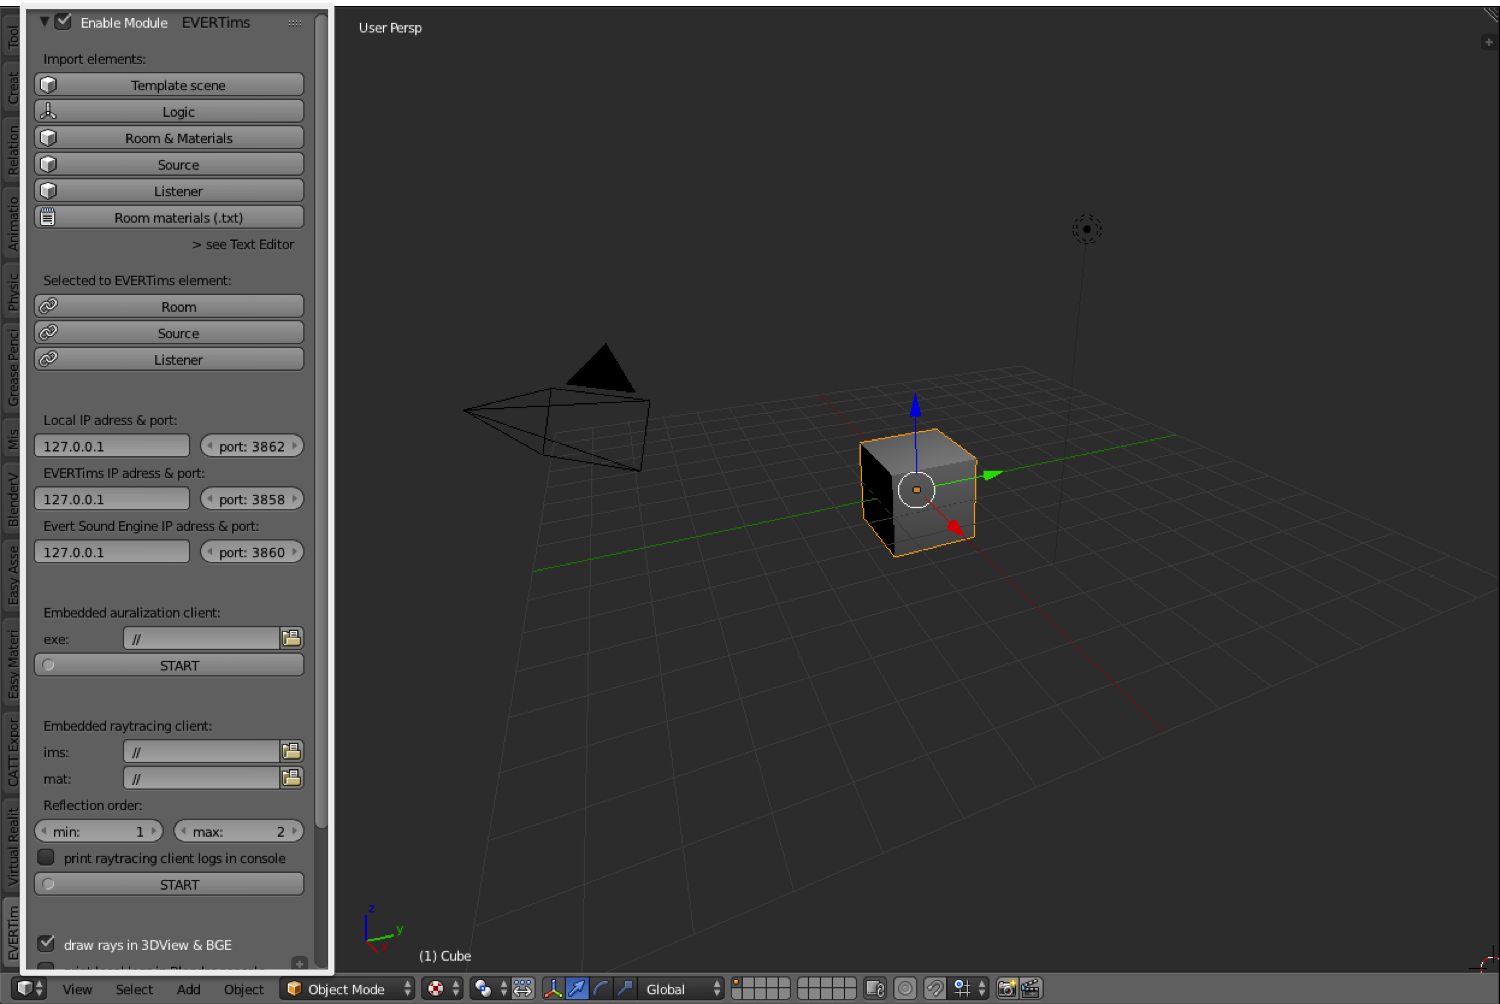
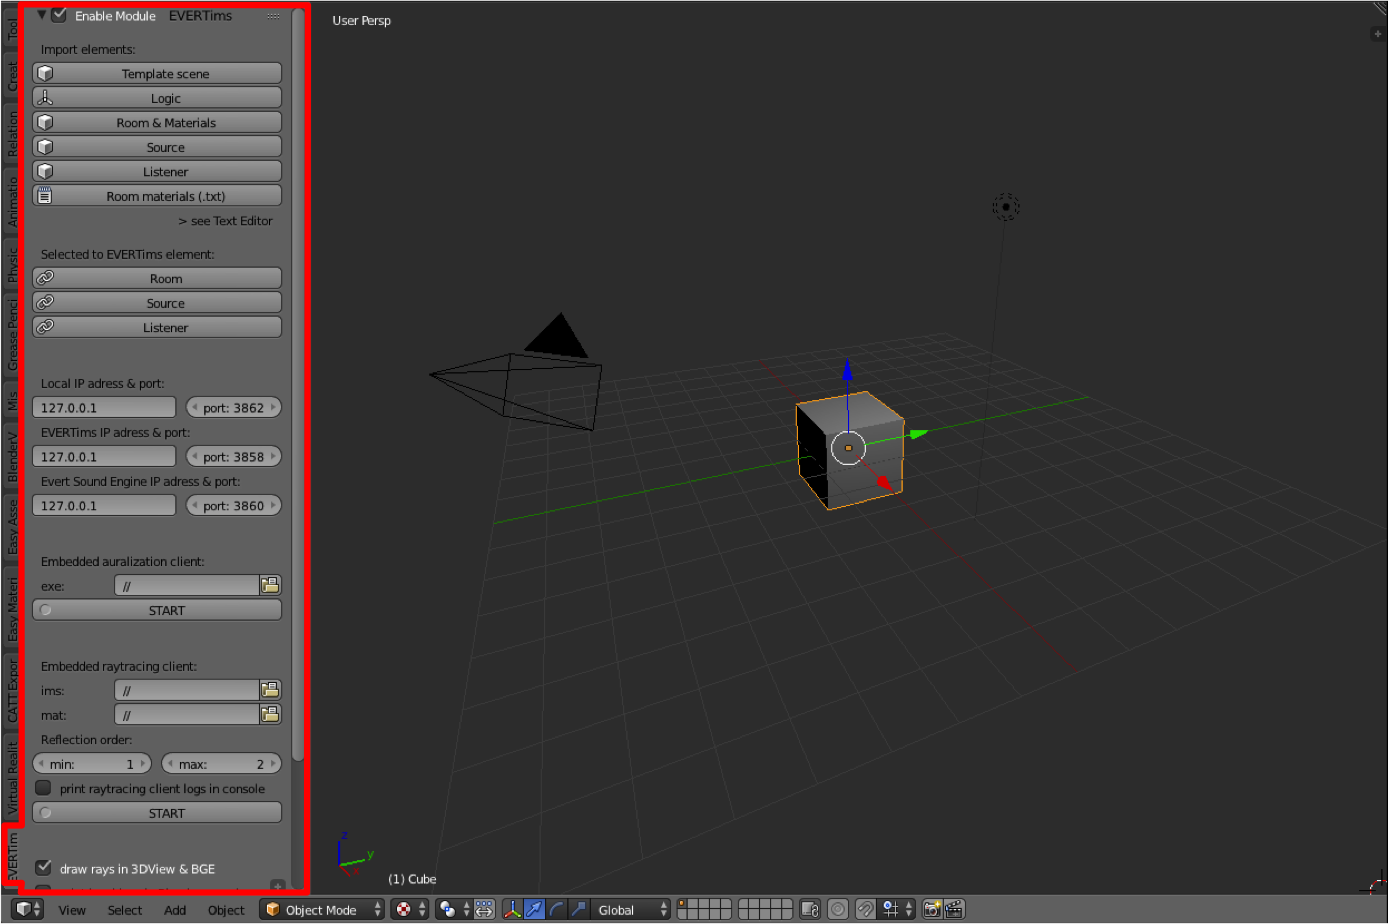
clarified install blender add-on section

diff --git a/pages/install-instructions.html b/pages/install-instructions.html
@@ -189,16 +189,46 @@ socket      : OK
             <div class="col-lg-12 text-left">
                 <h2 class="section-heading">Install Blender Add-on</h2>
                 <br>
-                <p> Download and install <a class="text-faded link-on-primary-bg" href="https://www.blender.org/">Blender</a> if need be, then download the <a class="text-faded link-on-primary-bg" href="https://github.com/EVERTims/game_engine_evertims/archive/master.zip">EVERTims Add-on</a>. Install the add-on from Blender preferences (see e.g. the <a class="text-faded link-on-primary-bg" href="https://www.blender.org/manual/advanced/scripting/python/addons.html#installation-of-a-3rd-party-add-on">Blender manual instructions</a> or one of the methods presented <a class="text-faded link-on-primary-bg" href="http://blender.stackexchange.com/questions/1688/installing-an-addon">here</a> for details). You should end-up with the add-on nested in the Blender 3D view > Toolbox (press <kbd>T</kbd> while hovering the mouse over the 3D view if the toolbox is not displayed):
+                <p> Download and install <a class="text-faded link-on-primary-bg" href="https://www.blender.org/">Blender</a> if need be, then download the <a class="text-faded link-on-primary-bg" href="https://github.com/EVERTims/game_engine_evertims/archive/master.zip">EVERTims Add-on</a>. Open Blender preferences, go to the ‘‘Add-ons’’ tab, and click on the ‘‘Install from File...’’ button. in the navigation menu that pops up, locate and double click on the .zip file of the EVERTims Add-on you just downloaded (without unzipping it). Back to the Add-ons tab, search for the EVERTims add-on in the list and enable it:
                 </p>
+            </div>
+            <div align="middle" class="col-xs-12">
+                <p>
+                <img src="{{ site.baseurl }}/img/blender-addon-install-1.png" class="img-responsive img-framed-on-primary" alt="">
+                </p>
+            </div>
+            <div align="middle" class="col-xs-12">
+                <p>
+                <img src="{{ site.baseurl }}/img/blender-addon-install-2.png" class="img-responsive img-framed-on-primary" alt="">
+                </p>
+            </div>
+            <div align="middle" class="col-xs-12">
+                <p>
+                <img src="{{ site.baseurl }}/img/blender-addon-install-3.png" class="img-responsive img-framed-on-primary" alt="">
+                </p>
+            </div>
+
+            <div class="col-lg-12 text-left">
+                <p> You should end-up with the add-on nested in the Blender 3D view > Toolbox (press <kbd>T</kbd> while hovering the mouse over the 3D view if the toolbox is not displayed): 
+                </p>
+            </div>
+            <div align="middle" class="col-xs-12">
                 <p>
                 <img src="{{ site.baseurl }}/img/blender-addon-screenshot.png" class="img-responsive img-framed-on-primary" alt="">
-                </P>
-                <p>
-                    To complete the installation, setup the paths to the &ldquo;Embedded auralization client&rdquo;, the &ldquo;Embedded raytracing client&rdquo;, and its material file (<kbd>evertims/resources/materials.dat</kbd>) in the add-on panel. Saving this scene as the Blender startup file (Ctrl+U) saves these settings as well.
                 </p>
+            </div>
+
+            <div class="col-lg-12 text-left">
                 <p>
-                    Go to the Tutorial section for an introduction on how to use the framework.
+                    To complete the installation, setup the paths to the &ldquo;Embedded auralization client&rdquo;, the &ldquo;Embedded raytracing client&rdquo;, and its material file (<kbd>evertims/resources/materials.dat</kbd>) in the add-on panel, e.g. on MacOS:
+                </p>
+                <div align="middle" class="col-xs-12">
+                    <p>
+                    <img src="{{ site.baseurl }}/img/blender-addon-install-4.png" class="img-responsive img-framed-on-primary" alt="">
+                    </p>
+                </div>                
+                <p>
+                    Saving this scene as the Blender startup file (Ctrl+U) saves these settings as well. Next, go to the <a class="text-faded link-on-primary-bg" href="{{ site.baseurl }}/pages/tutorial.html">Tutorials</a> section for an introduction on how to use the framework.
                 </p>
             </div>
         </div>
